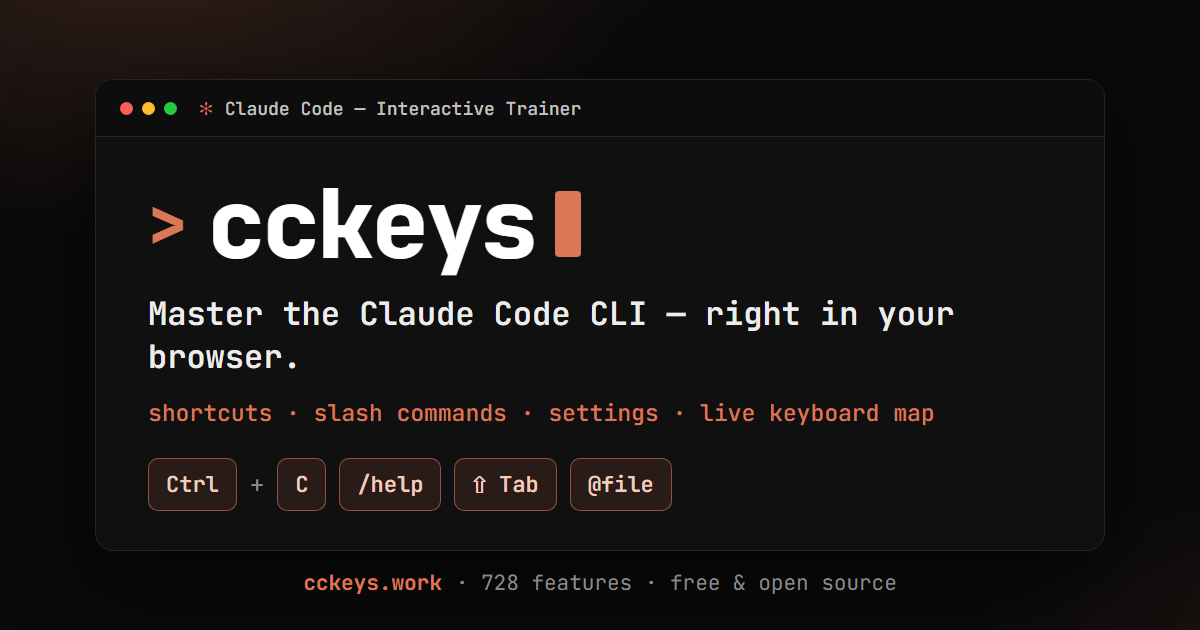
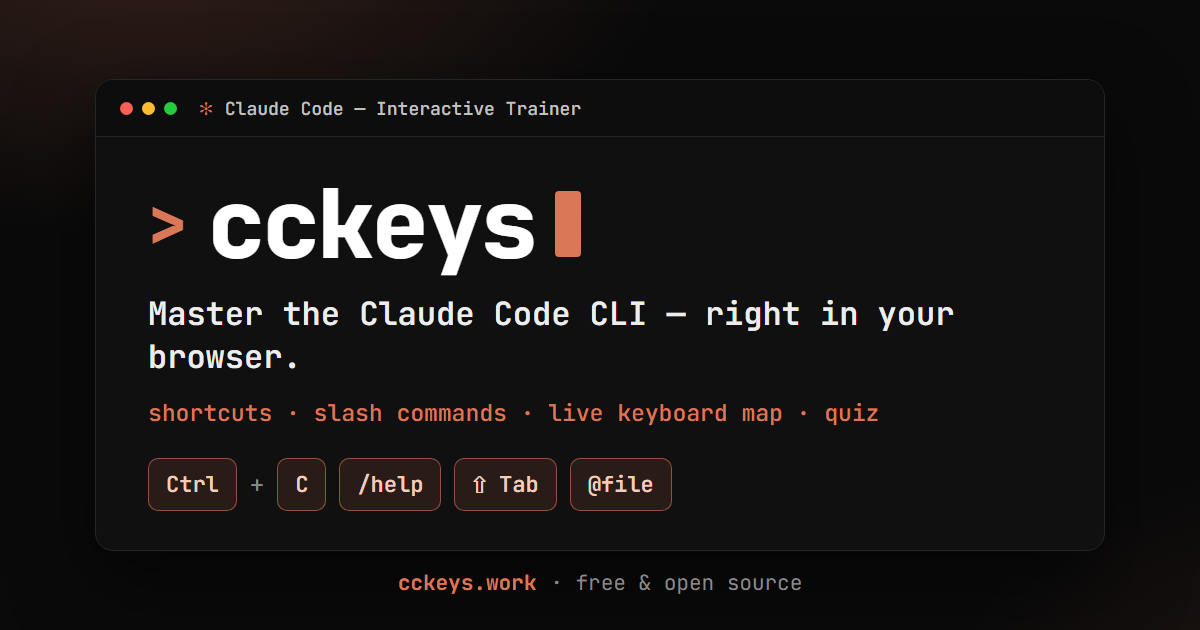
docs: README hero + product screenshots; refresh OG image
Add a hero image + a "look inside" section (keyboard + quiz screenshots),
list all five surfaces (incl. Quiz + guided track), and re-render the OG
social image (drop the now-stale feature count; mention the quiz).

Changed region(s): [[0.4625, 0.6333, 0.7708, 0.6937], [0.2467, 0.9048, 0.74, 0.9349]]

diff --git a/README.md b/README.md
@@ -1,7 +1,13 @@
-# cckeys — Claude Code Interactive Trainer
+<p align="center">
+  <a href="https://cckeys.work"><img src="public/og.png" alt="cckeys — Claude Code Interactive Trainer" width="680"></a>
+</p>
 
-[![Live](https://img.shields.io/badge/live-cckeys.work-D97757)](https://cckeys.work)
-[![License: MIT](https://img.shields.io/badge/license-MIT-blue)](LICENSE)
+<h1 align="center">cckeys — Claude Code Interactive Trainer</h1>
+
+<p align="center">
+  <a href="https://cckeys.work"><img src="https://img.shields.io/badge/live-cckeys.work-D97757" alt="Live"></a>
+  <a href="LICENSE"><img src="https://img.shields.io/badge/license-MIT-blue" alt="License: MIT"></a>
+</p>
 
 > An interactive, terminal-styled web app to help you **master the Claude Code CLI** — like the
 > shortcut-visualizer pages for Photoshop/Illustrator, but playful and hands-on.
@@ -14,12 +20,23 @@ configure, runs entirely in your browser.
 ## Features
 
 - ⌨️ **Keyboard visualizer** — a full keyboard where shortcut keys glow; click a key to light up its
-  partners and see every shortcut on it (mac / Windows / Linux views).
+  partner keys and see every shortcut on it (macOS / Windows / Linux views).
 - 🔍 **Cheatsheet** — searchable, filterable catalog of every Claude Code feature, with examples.
 - 🎮 **Playground** — a safe *simulated* Claude Code terminal (nothing executes) to try commands.
-- 🚀 **Start here** — a guided on-ramp for newcomers.
+- 🧠 **Quiz** — multiple-choice and type-the-shortcut questions, scored, with explanations.
+- 🚀 **Start here** — a guided, chaptered track for newcomers (prompt → modes → commands → memory → power features).
 
 Built on a curated catalog of **Claude Code features across 12 domains**, audited against the official docs.
+
+## A look inside
+
+**⌨️ Keyboard visualizer** — click a key and its shortcuts + partner keys light up:
+
+![Keyboard visualizer](docs/media/keyboard.png)
+
+**🧠 Quiz** — test yourself with instant feedback:
+
+![Quiz](docs/media/quiz.png)
 
 ## Tech stack
 